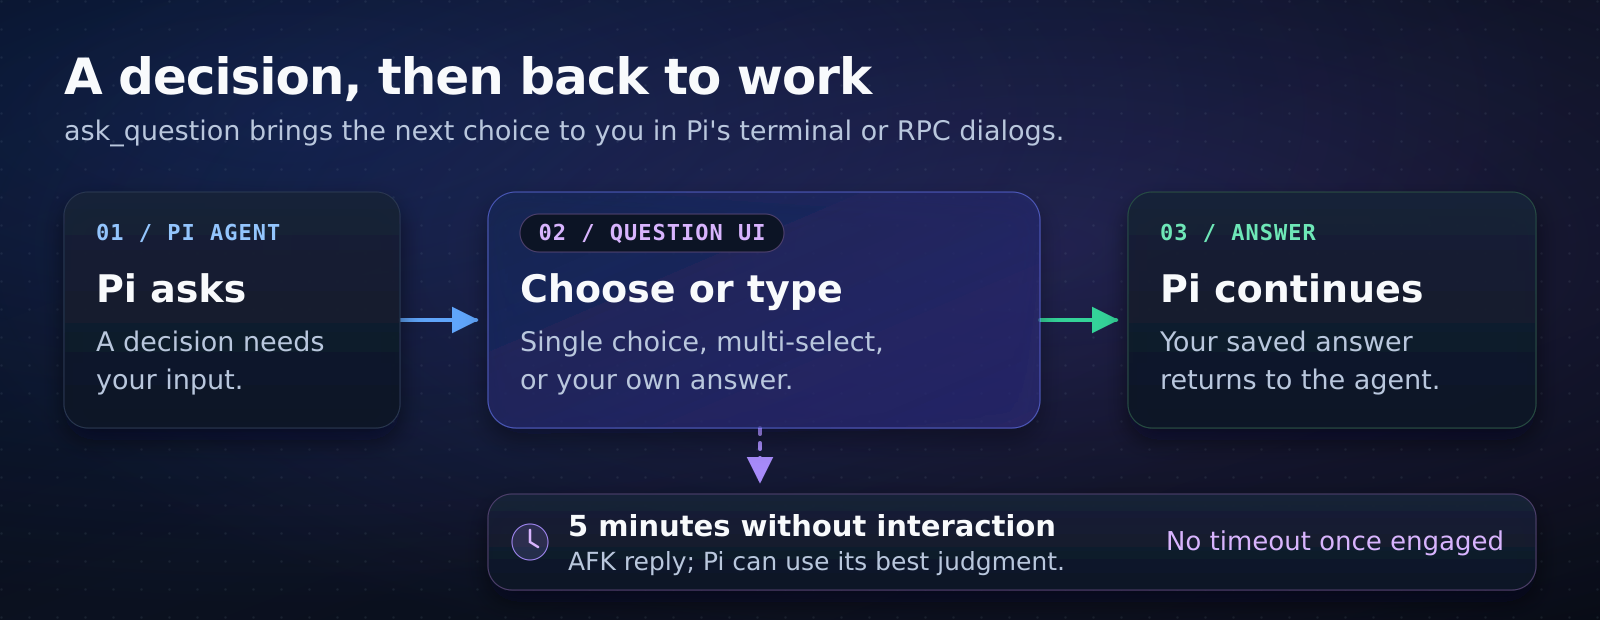
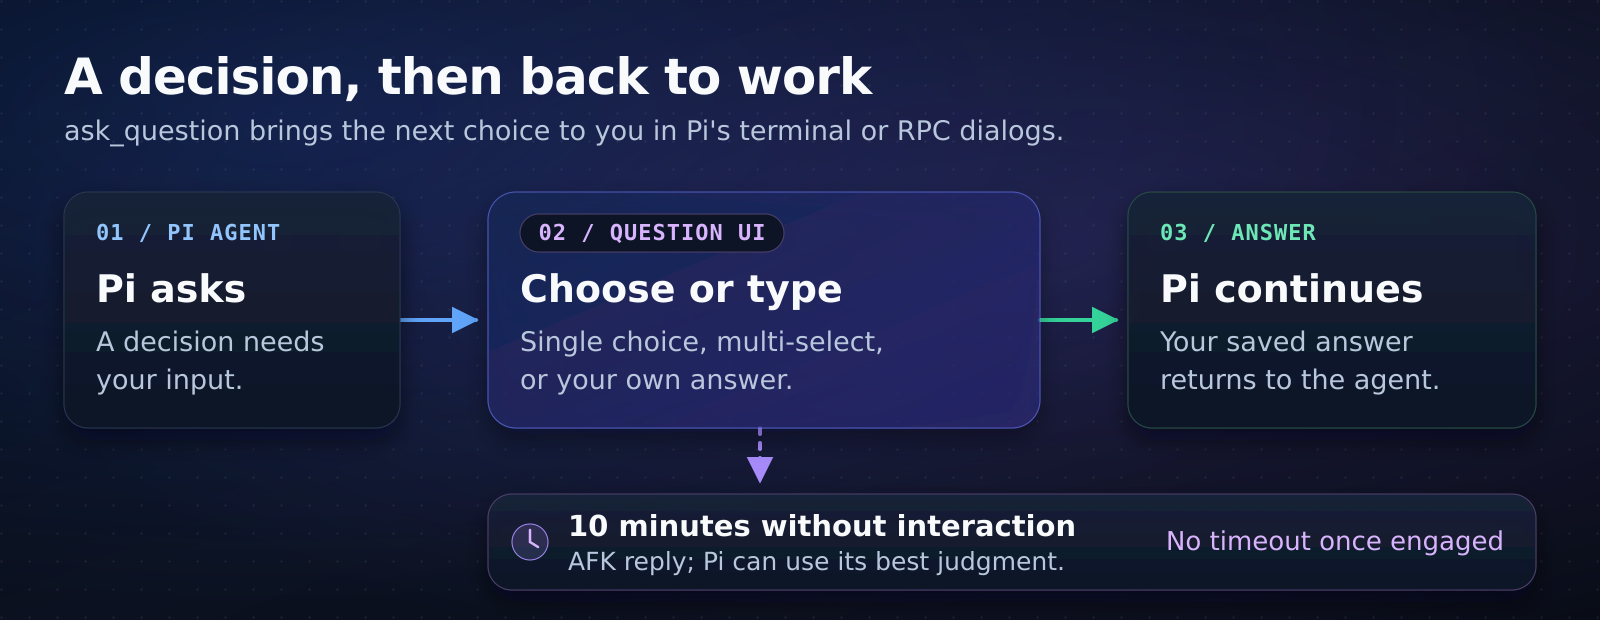
feat: wait ten minutes before an untouched question auto-continues (PAQ-201) (#93)
Raise the ask_question inactivity timeout from five to ten minutes. The
question footer, the timed-out result text, and the tool description
read the minutes from QUESTION_TIMEOUT_MINUTES, so the duration lives in
one place.

Tests double every timer value around the deadline so each keeps its
meaning. The README, reference and development docs, the README diagram
(SVG and re-rendered PNG), and the changelog now say ten minutes.

Changed region(s): [[0.3438, 0.8274, 0.6875, 0.8887]]

diff --git a/tests/ask-question.test.ts b/tests/ask-question.test.ts
@@ -963,7 +963,7 @@ function pendingDialog(
 }
 
 nodeTest(
-  "ask_question returns the AFK reply at exactly five minutes without choosing an option",
+  "ask_question returns the AFK reply at exactly ten minutes without choosing an option",
   async (t) => {
     t.mock.timers.enable({ apis: ["setTimeout"] });
     const harness = fakeHarness();
@@ -978,12 +978,12 @@ nodeTest(
     );
     const component = harness.getCustomComponent();
 
-    t.mock.timers.tick(299_999);
+    t.mock.timers.tick(599_999);
     assert.equal(harness.getCustomDoneCalls(), 0);
     t.mock.timers.tick(1);
     assert.equal(harness.getCustomDoneCalls(), 1);
     const result = await execution;
-    assert.match(component.render(80).join("\n"), /Auto-continues after 5 minutes/);
+    assert.match(component.render(80).join("\n"), /Auto-continues after 10 minutes/);
 
     assert.deepEqual(result.details.answers, []);
     assert.equal(result.details.timedOut, true);
@@ -991,23 +991,23 @@ nodeTest(
     assert.equal(controller.signal.aborted, false);
     assert.equal(
       contentText(result),
-      "Timed out after 5 minutes. Mitch is currently AFK. A timeout does not answer a material scope, safety, or acceptance question or grant approval. Continue already-authorized work and use your best judgement for routine choices.",
+      "Timed out after 10 minutes. Mitch is currently AFK. A timeout does not answer a material scope, safety, or acceptance question or grant approval. Continue already-authorized work and use your best judgement for routine choices.",
     );
     const rendered = tool
       .renderResult(result, { expanded: false, isPartial: false }, harness.theme, harness.ctx)
       .render(80)
       .join("\n");
-    assert.match(rendered, /Timed out after 5 minutes/);
+    assert.match(rendered, /Timed out after 10 minutes/);
     assert.match(rendered, /AFK/);
     assert.doesNotMatch(rendered, /Cancelled|✓|User answered/);
     controller.abort();
-    t.mock.timers.tick(300_000);
+    t.mock.timers.tick(600_000);
     assert.equal(harness.getCustomDoneCalls(), 1);
   },
 );
 
 nodeTest(
-  "interaction keeps a question set open beyond five minutes without affecting the next call",
+  "interaction keeps a question set open beyond ten minutes without affecting the next call",
   async (t) => {
     t.mock.timers.enable({ apis: ["setTimeout"] });
     const harness = fakeHarness();
@@ -1026,13 +1026,13 @@ nodeTest(
     );
     const component = harness.getCustomComponent();
     try {
-      t.mock.timers.tick(200_000);
+      t.mock.timers.tick(400_000);
       component.handleInput("\r");
       component.handleInput(" ");
       component.handleInput("\u001b[B");
       component.handleInput("\r");
       component.handleInput("A lengthy draft");
-      t.mock.timers.tick(400_000);
+      t.mock.timers.tick(800_000);
       assert.equal(
         harness.getCustomDoneCalls(),
         0,
@@ -1060,7 +1060,7 @@ nodeTest(
       undefined,
       harness.ctx,
     );
-    t.mock.timers.tick(300_000);
+    t.mock.timers.tick(600_000);
     assert.equal((await next).details.timedOut, true, "A new untouched question still times out");
   },
 );
@@ -1080,7 +1080,7 @@ nodeTest("a mouse interaction keeps the question open", async (t) => {
     const component = harness.getCustomComponent();
     try {
       component.handleMouse(mouseEvent(type, 2, 2));
-      t.mock.timers.tick(300_000);
+      t.mock.timers.tick(600_000);
       assert.equal(harness.getCustomDoneCalls(), 0);
       assert.match(component.render(80).join("\n"), /No time limit while you answer/);
       component.handleInput("\r");
@@ -1106,11 +1106,11 @@ nodeTest("RPC choices keep later dialogs open past the original timeout", async 
       pendingSignal = args[2]?.signal;
       return pendingDialog(...args);
     }
-    t.mock.timers.tick(120_000);
+    t.mock.timers.tick(240_000);
     return select(...args);
   };
   harness.ctx.ui.input = async (...args) => {
-    t.mock.timers.tick(50_000);
+    t.mock.timers.tick(100_000);
     return input(...args);
   };
   const controller = new AbortController();
@@ -1131,7 +1131,7 @@ nodeTest("RPC choices keep later dialogs open past the original timeout", async 
       setImmediate(resolve);
     });
     assert.ok(pendingSignal);
-    t.mock.timers.tick(130_000);
+    t.mock.timers.tick(260_000);
     assert.equal(pendingSignal.aborted, false);
   } finally {
     controller.abort();
@@ -1170,7 +1170,7 @@ nodeTest(
       await new Promise<void>((resolve) => {
         setImmediate(resolve);
       });
-      t.mock.timers.tick(300_000);
+      t.mock.timers.tick(600_000);
       assert.equal(pendingSignal?.aborted, false, "An open custom answer must not time out");
     } finally {
       controller.abort();
@@ -1195,7 +1195,7 @@ nodeTest("ask_question clears its timer after an answer, cancellation, or UI err
     const result = await execution;
     assert.equal(result.details.timedOut, false);
     assert.equal(result.details.cancelled, key === "\u001b");
-    t.mock.timers.tick(300_000);
+    t.mock.timers.tick(600_000);
     assert.equal(harness.getCustomDoneCalls(), 1);
   }
   const harness = fakeHarness();
@@ -1288,7 +1288,7 @@ nodeTest(
       const initial = busState(harness);
       assert.equal(initial.timeoutActive, true);
       harness.getCustomComponent().handleInput("\u001b[B");
-      t.mock.timers.tick(300_000);
+      t.mock.timers.tick(600_000);
       harness.events.emit("pi-ask-question:query", {
         queryId: "after-interaction",
         protocolVersion: 1,
@@ -1326,7 +1326,7 @@ nodeTest(
     t.mock.timers.setTime(stateNumber(target, "deadline"));
     harness.reply(target, "too late");
     assert.equal(harness.receipts.at(-1)?.status, "stale");
-    t.mock.timers.tick(300_000);
+    t.mock.timers.tick(600_000);
     assert.equal((await execution).details.timedOut, true);
   },
 );
@@ -1347,7 +1347,7 @@ nodeTest(
     harness.events.on("pi-ask-question:lookup-result", (data: LookupResult) => lookups.push(data));
     const query = () =>
       harness.events.emit("pi-ask-question:query", { queryId: "late", protocolVersion: 1 });
-    t.mock.timers.tick(200_000);
+    t.mock.timers.tick(400_000);
     query();
     const target = lastOf(snapshots);
     assert.equal(
@@ -1355,7 +1355,7 @@ nodeTest(
       "waiting",
       "An observer attaching after waiting was emitted receives a snapshot",
     );
-    assert.equal(target.deadline, 301_000);
+    assert.equal(target.deadline, 601_000);
     assert.equal(target.nativeRoot, "native-test-root");
     assert.equal(typeof target.ownerGeneration, "string");
     for (const changed of [
@@ -1672,13 +1672,13 @@ nodeTest(
       controller.signal,
     );
     try {
-      t.mock.timers.tick(200_000);
+      t.mock.timers.tick(400_000);
       harness.reply(busState(harness), "saved");
       await flushState();
       const target = busState(harness);
-      assert.equal(target.deadline, 301_000);
+      assert.equal(target.deadline, 601_000);
       assert.equal(target.timeoutActive, false);
-      t.mock.timers.tick(100_000);
+      t.mock.timers.tick(200_000);
       assert.equal(harness.getCustomDoneCalls(), 0);
       harness.reply(target, "second answer", "after-deadline");
       assert.equal(harness.receipts.at(-1)?.status, "answered");

diff --git a/extensions/lib/tool.ts b/extensions/lib/tool.ts
@@ -16,6 +16,7 @@ import type { QuestionObserver } from "./question-observer.ts";
 import { AskQuestionParams, prepareAskQuestionArguments } from "./schema.ts";
 import { exactText } from "./text.ts";
 import {
+  QUESTION_TIMEOUT_MINUTES,
   QUESTION_TIMEOUT_MS,
   TIMEOUT_MESSAGE,
   type Answer,
@@ -159,8 +160,7 @@ export function createAskQuestionTool(
   return defineTool<typeof AskQuestionParams, AskQuestionDetails>({
     name: "ask_question",
     label: "Ask Question",
-    description:
-      "Ask the user one or more clarifying questions through pi's UI. After 5 minutes without interaction, returns an AFK reply so you can continue already-authorized work and routine choices without treating silence as an answer to a material question or as approval.",
+    description: `Ask the user one or more clarifying questions through pi's UI. After ${QUESTION_TIMEOUT_MINUTES} minutes without interaction, returns an AFK reply so you can continue already-authorized work and routine choices without treating silence as an answer to a material question or as approval.`,
     promptSnippet: "Ask the user clarifying questions through pi's UI",
     promptGuidelines: [
       "For ask_question, list options from most recommended to least; the first option is the recommended choice, and do not label it as recommended.",

diff --git a/tests/native-tui.test.ts b/tests/native-tui.test.ts
@@ -540,7 +540,7 @@ nodeTest(
               assert.equal(initial.status, "waiting");
               assert.equal(initial.nativeRoot, runtime.session.sessionManager.getSessionId());
               assert.equal(initial.deadline, waitingState(states).deadline);
-              assert.ok(initial.deadline > Date.now() && initial.deadline <= Date.now() + 300_000);
+              assert.ok(initial.deadline > Date.now() && initial.deadline <= Date.now() + 600_000);
               assert.ok(viewport().some((line) => line.includes("Remote first?")));
               bus().emit("pi-ask-question:answer", {
                 ...initial,
@@ -642,7 +642,7 @@ nodeTest(
               assert.ok(
                 viewport().some((line) => line.includes("No time limit while you answer.")),
               );
-              now += 300_001;
+              now += 600_001;
               terminal.send("\r");
               await nextRender();
               bus().emit("pi-ask-question:query", { protocolVersion: 1, queryId: "after-typing" });

diff --git a/extensions/lib/types.ts b/extensions/lib/types.ts
@@ -39,14 +39,15 @@ export type QuestionResult = {
   cancelled: boolean;
 };
 
-/** Cooperative five-minute inactivity timeout for one question set. */
+/** Cooperative inactivity timeout (`QUESTION_TIMEOUT_MS`) for one question set. */
 export type QuestionTimeout = {
   deadline: number;
   readonly active: boolean;
   stop: () => boolean;
 };
 
-export const QUESTION_TIMEOUT_MS = 5 * 60 * 1000;
+export const QUESTION_TIMEOUT_MINUTES = 10;
+export const QUESTION_TIMEOUT_MS = QUESTION_TIMEOUT_MINUTES * 60 * 1000;
 export const TIMEOUT_MESSAGE =
   "Mitch is currently AFK. A timeout does not answer a material scope, safety, or acceptance question or grant approval. Continue already-authorized work and use your best judgement for routine choices.";
 export const CUSTOM_OPTION = "Type a custom answer";

diff --git a/extensions/lib/form-page.ts b/extensions/lib/form-page.ts
@@ -14,7 +14,7 @@ import {
 } from "@earendil-works/pi-tui";
 import { formatAnswer } from "./normalize.ts";
 import { wrapByColumn } from "./text.ts";
-import type { Answer, NormalizedQuestion } from "./types.ts";
+import { QUESTION_TIMEOUT_MINUTES, type Answer, type NormalizedQuestion } from "./types.ts";
 
 /** Read-only form surface the page builders render from. */
 export type FormView = {
@@ -391,7 +391,7 @@ function addFooter(page: PageBuilder, view: FormView): void {
     page,
     view,
     view.timeoutActive
-      ? "Auto-continues after 5 minutes without interaction."
+      ? `Auto-continues after ${QUESTION_TIMEOUT_MINUTES} minutes without interaction.`
       : "No time limit while you answer.",
     {
       style: (text) => view.theme.fg("dim", text),

diff --git a/extensions/lib/normalize.ts b/extensions/lib/normalize.ts
@@ -1,6 +1,12 @@
 /** Question normalization and answer summarizing. */
 
-import { TIMEOUT_MESSAGE, type Answer, type NormalizedQuestion, type Question } from "./types.ts";
+import {
+  QUESTION_TIMEOUT_MINUTES,
+  TIMEOUT_MESSAGE,
+  type Answer,
+  type NormalizedQuestion,
+  type Question,
+} from "./types.ts";
 
 /** Trim a value and drop empty results; undefined passes through. */
 export function clean(value: string | undefined): string | undefined {
@@ -100,7 +106,7 @@ export function summarize(
 ): string {
   if (timedOut) {
     return [
-      `Timed out after 5 minutes. ${TIMEOUT_MESSAGE}`,
+      `Timed out after ${QUESTION_TIMEOUT_MINUTES} minutes. ${TIMEOUT_MESSAGE}`,
       ...(answers.size > 0
         ? [
             "",

diff --git a/docs/reference.md b/docs/reference.md
@@ -91,7 +91,7 @@ Answers are returned in tool result text and structured `details`:
 - `answers` contains saved answers with `id`, `question`, `answer`, and `wasCustom`.
 - Multi-select answers also contain `selectedOptions`. Tool text and the review show an unambiguous JSON array; the comma-joined `answer` field remains available.
 - `cancelled` reports user or caller cancellation.
-- `timedOut` reports an untouched five-minute timeout separately from cancellation.
+- `timedOut` reports an untouched ten-minute timeout separately from cancellation.
 
 The configured selection-cancel binding cancels the question and reports cancellation to the model.
 
@@ -124,9 +124,9 @@ These are the default controls. The UI shows your configured bindings, except fo
 | Read a long question while editing a custom answer                             | Shift+PageUp/Shift+PageDown                                |
 | Cancel the question, or return from a custom-answer edit to the choices        | Escape                                                     |
 
-## Five-minute timeout
+## Ten-minute timeout
 
-Each `ask_question` call starts a five-minute timer. In the TUI, any keyboard or mouse interaction with the question, including opening the conversation view, disables the timer for that call. An accepted cooperative answer also disables it. A question set stays open after its first interaction, including while typing an answer or reviewing the remaining questions. Each new call starts a fresh timer.
+Each `ask_question` call starts a ten-minute timer. In the TUI, any keyboard or mouse interaction with the question, including opening the conversation view, disables the timer for that call. An accepted cooperative answer also disables it. A question set stays open after its first interaction, including while typing an answer or reviewing the remaining questions. Each new call starts a fresh timer.
 
 In RPC mode, Pi receives a response only when the client submits or cancels a dialog. Submitting a choice disables the timer for the rest of the call, including custom text entry. Navigation or typing within an unsubmitted dialog is not visible to Pi; the timeout remains active until a response arrives.
 
@@ -210,7 +210,7 @@ Subscribe before emitting a query. The owner responds on the same process-local 
 
 - `queryId` follows the same nonblank, 128-code-unit bound as answer `requestId`. It correlates an observation, not an answer attempt.
 - `nativeRoot` is the exact native session ID. `ownerGeneration` is a new UUID per loaded extension runtime, not an Intercom peer or authorization grant. Freeze both with the complete question target. Reload/session replacement invalidates the old generation.
-- `deadline` is the original call's five-minute deadline in Unix milliseconds and stays stable for target matching and receipts. `timeoutActive` is `true` until interaction disables the timeout; only while it is `true` does the deadline expire the target. Querying does not count as interaction. Clients must use both fields when deciding whether a target has expired.
+- `deadline` is the original call's ten-minute deadline in Unix milliseconds and stays stable for target matching and receipts. `timeoutActive` is `true` until interaction disables the timeout; only while it is `true` does the deadline expire the target. Querying does not count as interaction. Clients must use both fields when deciding whether a target has expired.
 - A query reads the current owner directly, including changes not yet emitted as coalesced state events. `idle` means no remotely answerable question **now**, including local editing or review; it is not proof that the tool call ended. RPC, print/JSON and incompatible protocol versions return `unsupported`. Before session startup, mode/root may be unavailable. An older extension without this handshake sends no response; never substitute keyboard injection or a guessed deadline.
 - Versioned answers must match protocol, owner generation, native root, deadline, prompt, question and revision. The legacy unversioned form retains its original prompt/revision guards.
 - Lookup is read-only. `answered` attests that the original owner applied this answer ID; it does not promise that a later local edit preserved that value, or that the model/task completed. It returns the accepted target and a lowercase SHA-256 fingerprint of UTF-8 `JSON.stringify([1, ownerGeneration, nativeRoot, promptId, questionId, revision, deadline, answer])`, using the exact submitted string/array before trimming.

diff --git a/README.md b/README.md
@@ -2,7 +2,7 @@
 
 This [Pi](https://github.com/earendil-works/pi) extension asks for your decisions before the agent continues a task. Use `/grill-me` to guide the agent through unclear requirements.
 
-![Pi calls ask_question, shows choices, and returns your answer to the agent. Five minutes without interaction returns an AFK reply.](.github/readme/question-flow.png)
+![Pi calls ask_question, shows choices, and returns your answer to the agent. Ten minutes without interaction returns an AFK reply.](.github/readme/question-flow.png)
 
 ## Install
 
@@ -33,7 +33,7 @@ Escape leaves the custom answer editor; otherwise, it cancels the question. Your
 
 ## Limits
 
-An untouched question times out after five minutes, and the agent receives an AFK reply to continue already-authorized work and routine choices without treating the timeout as an answer to a material question or as approval. Once you interact, there is no time limit for that question or question set. Each new call starts its own timer.
+An untouched question times out after ten minutes, and the agent receives an AFK reply to continue already-authorized work and routine choices without treating the timeout as an answer to a material question or as approval. Once you interact, there is no time limit for that question or question set. Each new call starts its own timer.
 
 In RPC mode, Pi learns about interaction when the client submits a dialog choice; navigating an unsubmitted dialog is not visible to Pi.
 

diff --git a/docs/development.md b/docs/development.md
@@ -48,4 +48,4 @@ The package file allowlist excludes `docs/` and `.github/readme/`; the diagram s
 
 ## README diagram
 
-The editable source is [`.github/readme/question-flow.svg`](../.github/readme/question-flow.svg), with a rendered PNG alongside it. It shows the normal question/answer flow and the separate five-minute timeout. The rendering uses `rsvg-convert`; inspect the full image and a preview at GitHub's column width after editing the SVG.
+The editable source is [`.github/readme/question-flow.svg`](../.github/readme/question-flow.svg), with a rendered PNG alongside it. It shows the normal question/answer flow and the separate ten-minute timeout. The rendering uses `rsvg-convert`; inspect the full image and a preview at GitHub's column width after editing the SVG.

diff --git a/CHANGELOG.md b/CHANGELOG.md
@@ -2,6 +2,8 @@
 
 ## Unreleased
 
+- Wait ten minutes instead of five before an untouched `ask_question` call returns the AFK reply.
+
 ## 0.6.20 - 2026-11-20
 
 <!-- npm-release:unreleased:start -->
